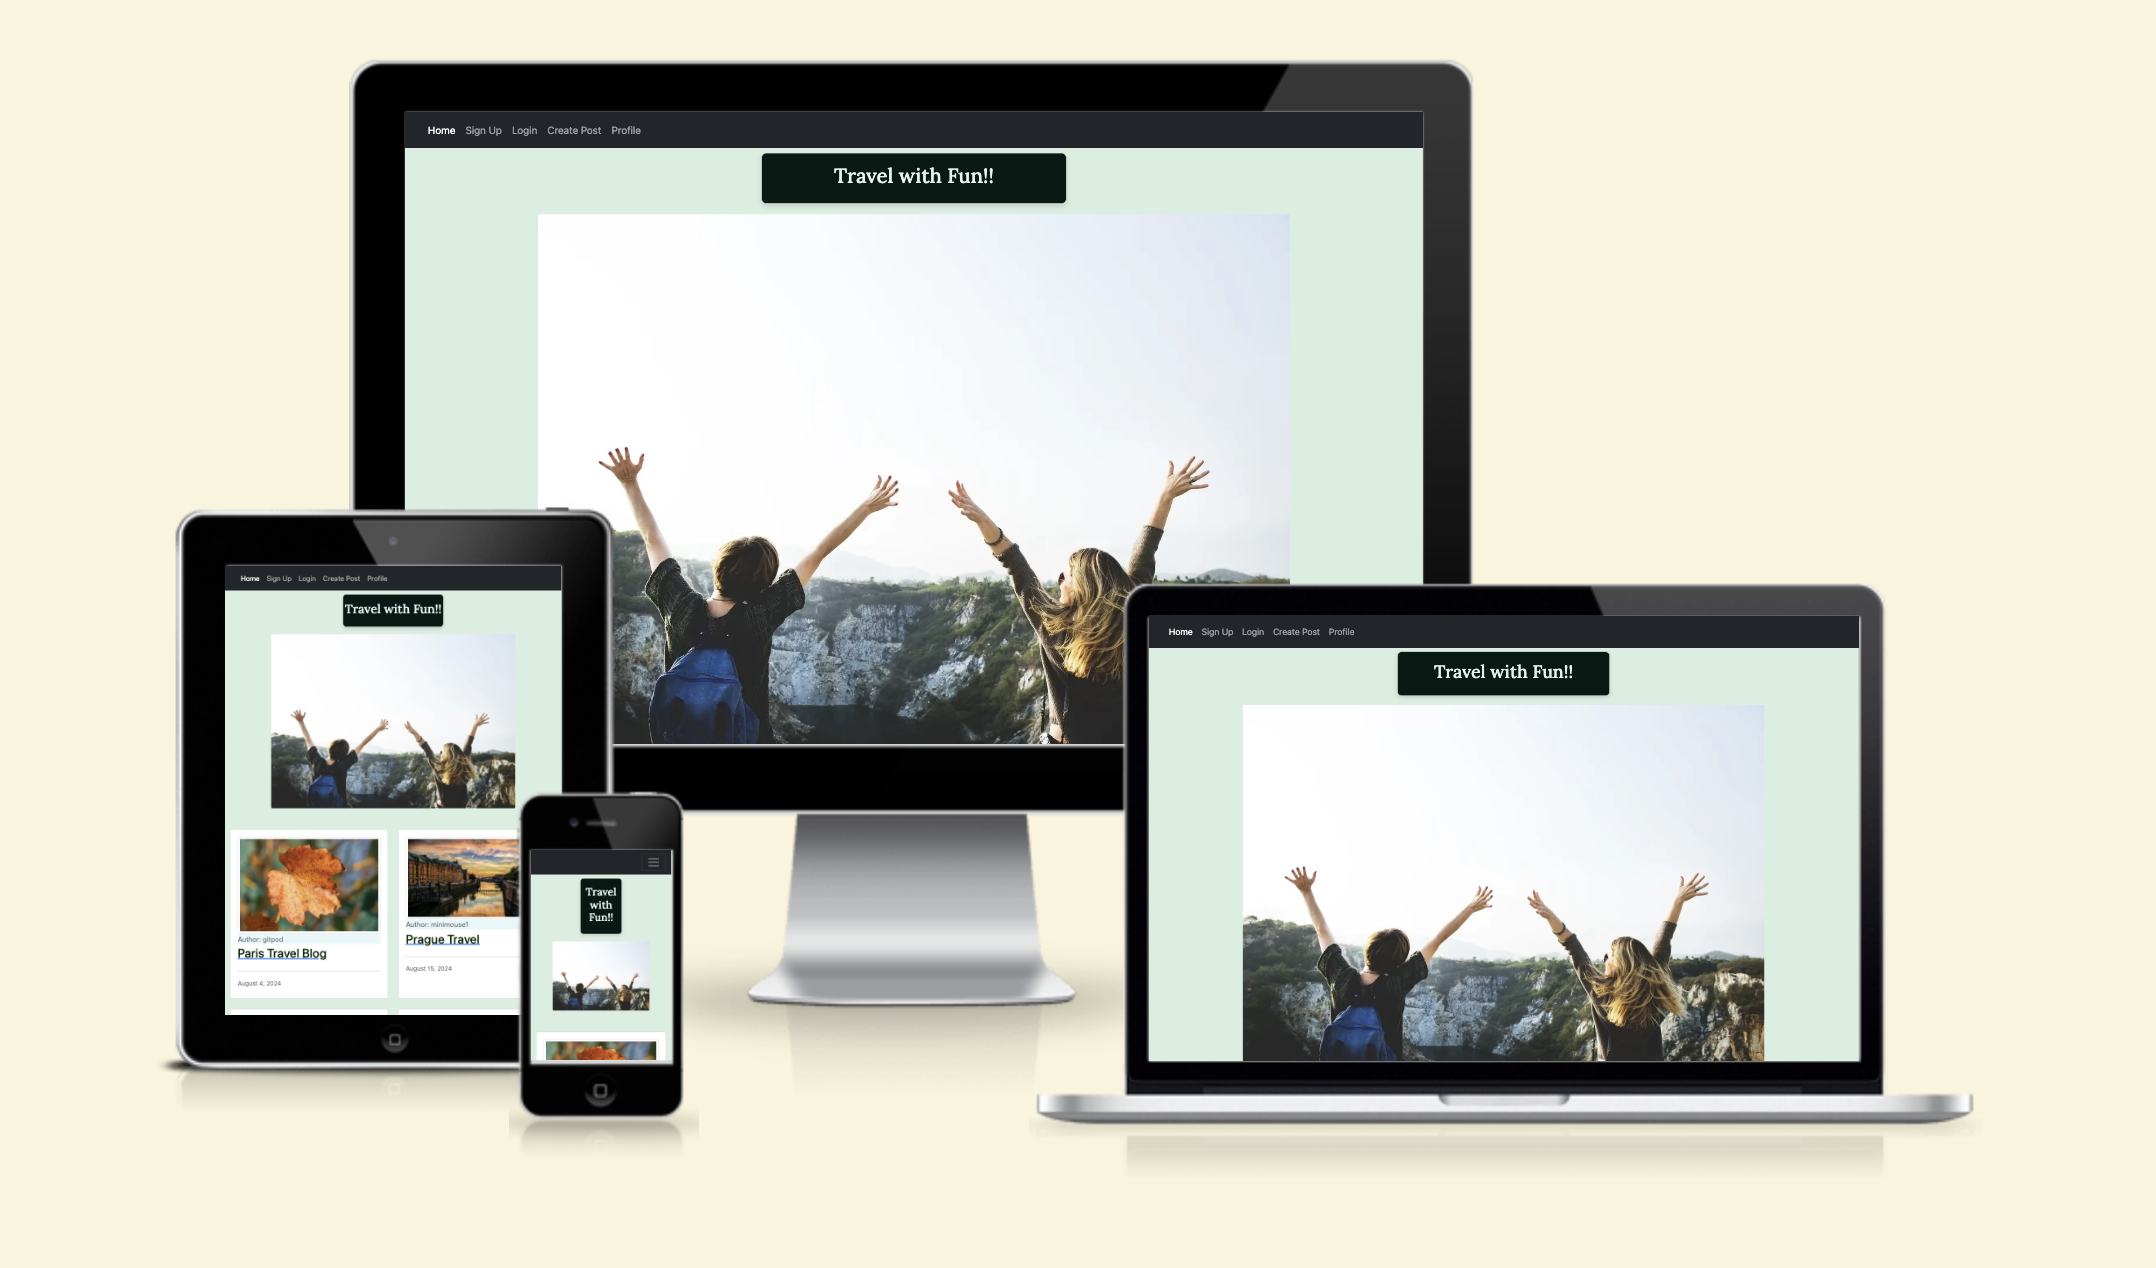
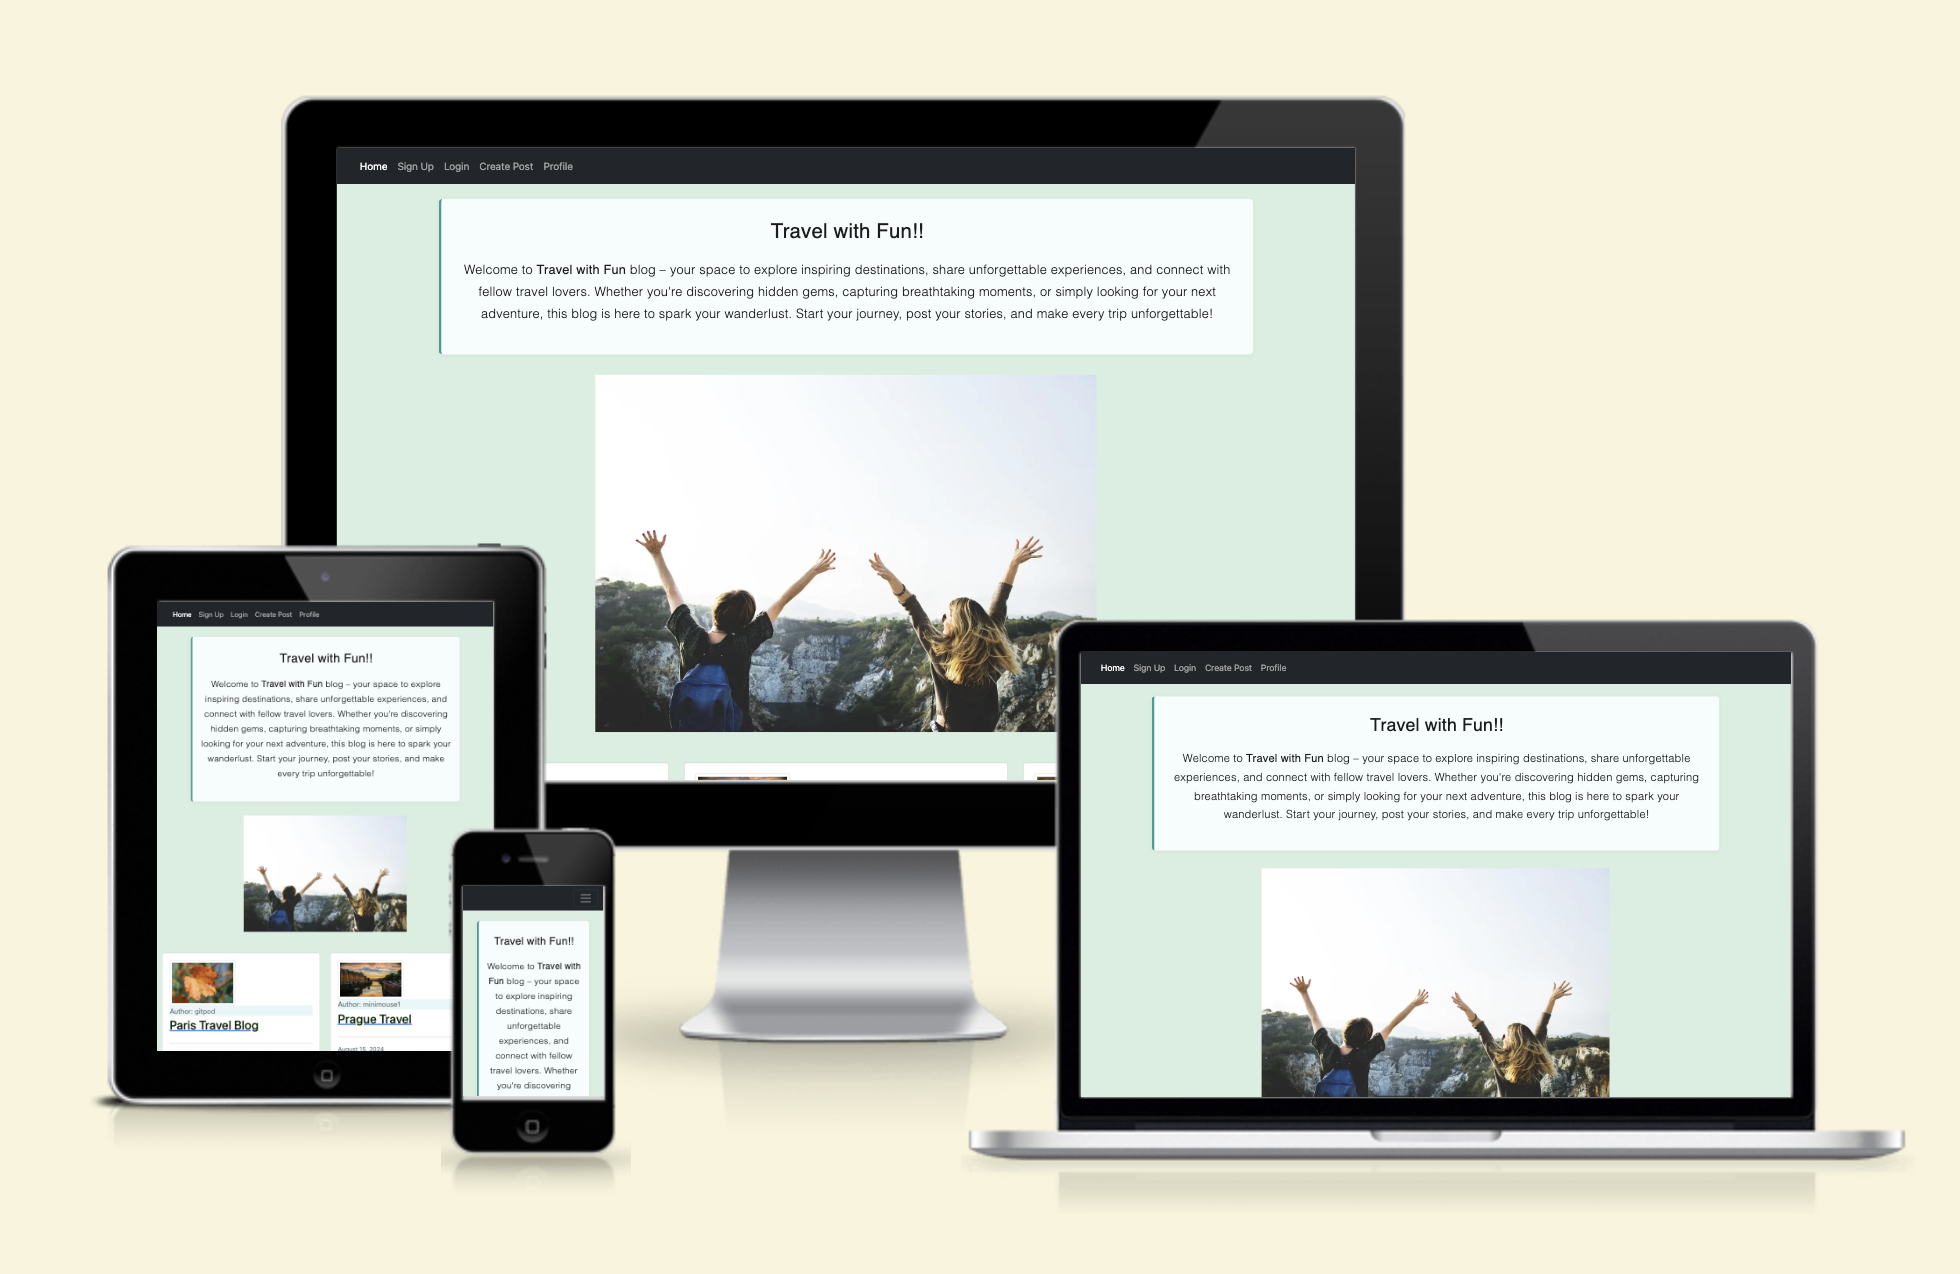
Update: readme for about text, cover image and profile image

diff --git a/README.md b/README.md
@@ -186,7 +186,7 @@ Wireframes are given here.
 
 <img alt="Signed User Navigation" src="readmefiles/images/signedupnav.png">
 
-* Header: Header is under navigation bar and in the middle of the page. It is called "Travel with Fun!!"
+* Header & About Text: Header is under navigation bar and in the middle of the page. It is called "Travel with Fun!!" It is accompanied with an attractive about text.
 
 <img alt="Header" src="readmefiles/images/header.png">
 
